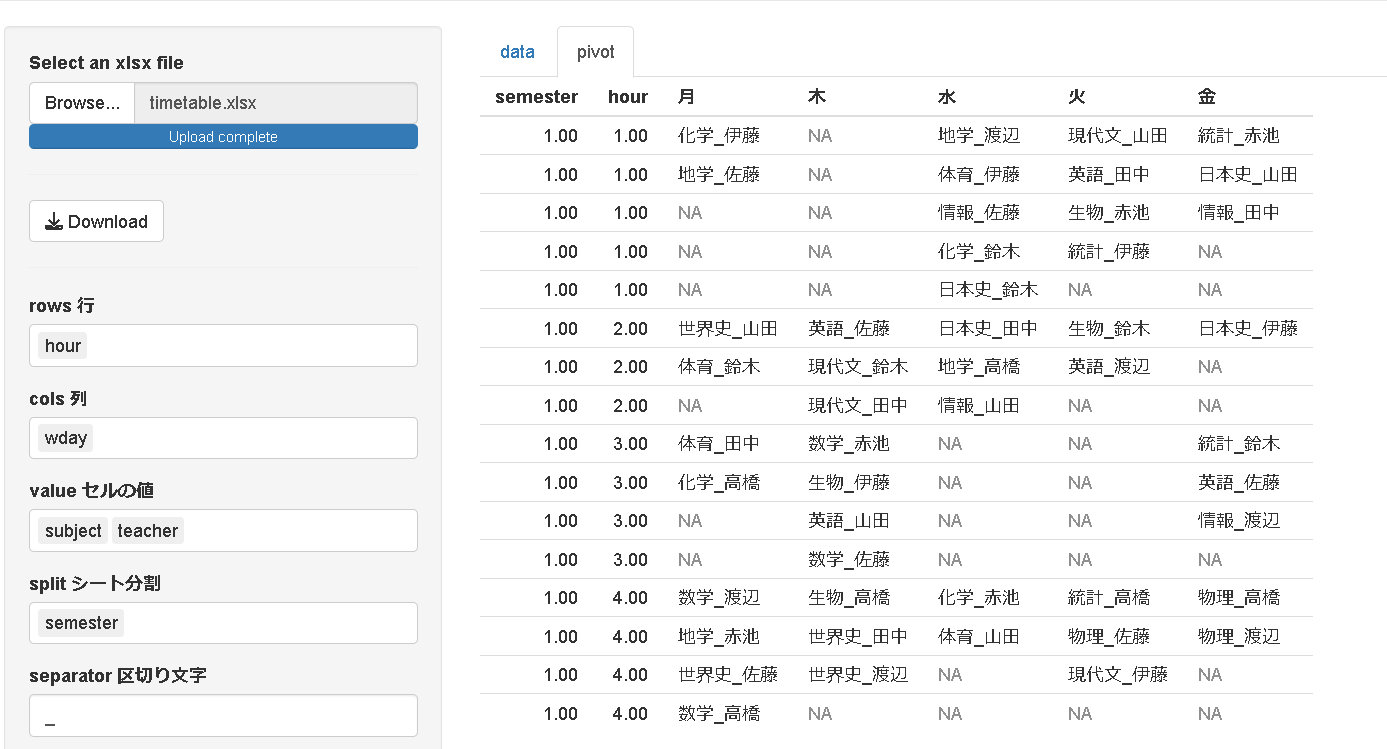
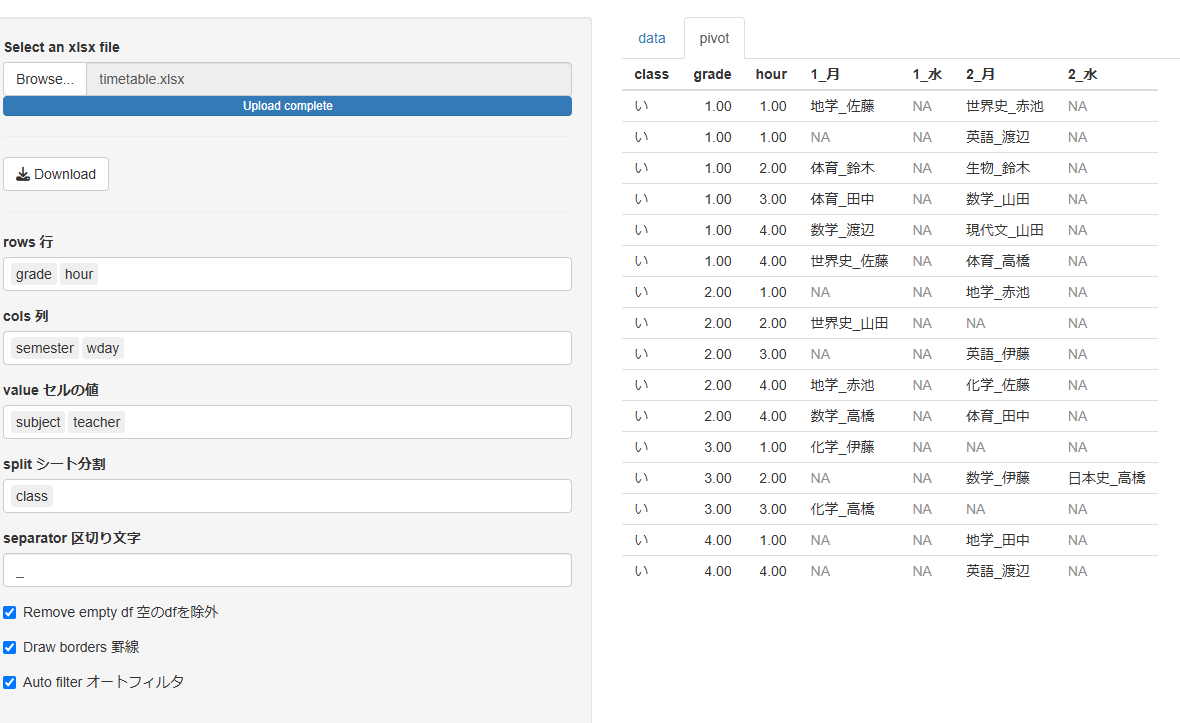
update documents

diff --git a/README.md b/README.md
@@ -47,9 +47,9 @@ shiny::runGitHub("matutosi/convex", subdir = "R")
 
 ## How to use Highlighting
 
--   左側の「Select xlxs file(s)」の下にある「Browse」をクリック\
+-   「highlight」のタブをクリックし，左側の「Select xlxs file(s)」の下にある「Browse」をクリック\
 
--   Click "Browse" under "Select xlxs file(s)"\
+-   Click "hilight" tab and click "Browse" under "Select xlxs file(s)"\
     <img src="images/hilight_init.png" width="60%"/>
 
 -   対象のファイルを選択(複数可)\
@@ -73,9 +73,9 @@ shiny::runGitHub("matutosi/convex", subdir = "R")
 
 ## How to use Pivot
 
--   左側の「Select xlxs file(s)」の下にある「Browse」をクリック\
+-   「pivotea」のタブをクリックし，左側の「Select xlxs file(s)」の下にある「Browse」をクリック\
 
--   Click "Browse" under "Select xlxs file(s)"\
+-   Click "pivotea" tab and click "Browse" under "Select xlxs file(s)"\
     <img src="images/pivot_init.png" width="60%"/>
 
 -   対象のファイルを選択(1つのみ)．\
@@ -93,9 +93,9 @@ shiny::runGitHub("matutosi/convex", subdir = "R")
 -   Pivoted table will be shown in "pivot" tab (first sheet when using split).\
     <img src="images/pivot_preview.png" width="60%"/>
 
--   「Download」をクリック．\
+-   「Download」をクリック．なお，「罫線」をチェックすると項目ごとに罫線が入り，「オートフィルタ」をチェックするとオートフィルタが設定される．\
 
--   Click "Download".\
+-   Click "Download". You can use "border" and "autofilter" by checking button. \
     <img src="images/pivot_output.png" width="60%"/>
 
 ## 引用
